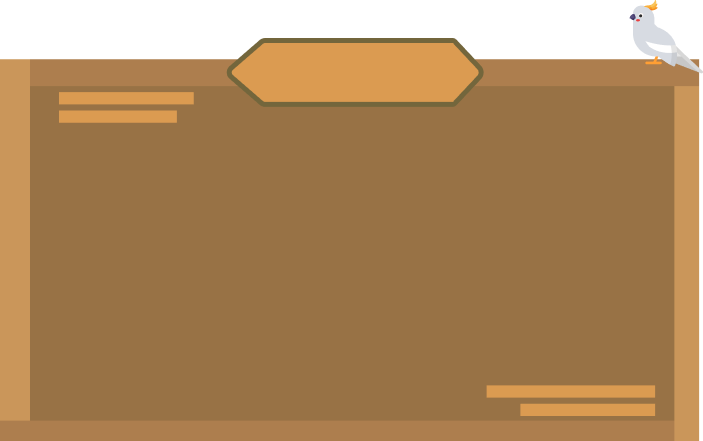
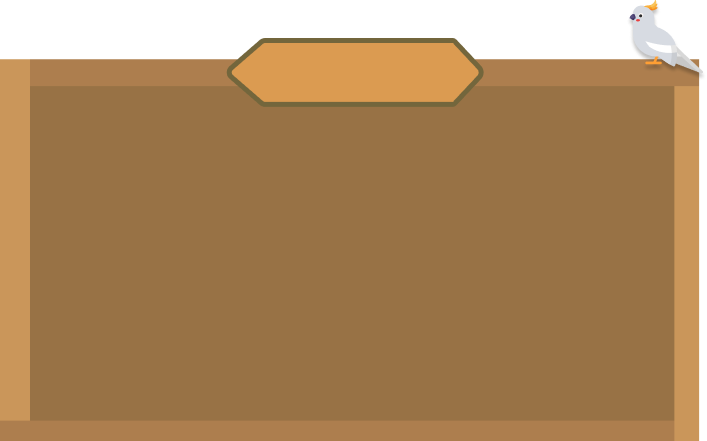
[UPDATE] change big-small plate img

diff --git a/src/Component/About/index.js b/src/Component/About/index.js
@@ -4,36 +4,37 @@ import Where from './Where'
 import '../../../node_modules/bootstrap/dist/css/bootstrap.min.css';
 
 import {Paragraph,Subtitle} from '../Core/Text'
+import Background from '../Core/Background';
 
 const Plate = styled.div`
     @media(min-width:320px) {
         background-image: url(/images/Objects/small-plate.png);
-        width:263px;
-        height: 218px;
-        margin-left:1.5em;
+        width:260px;
+        height: 290px;
+        margin-left:1.8em;
       }
       @media(min-width:375px) {
         background-image: url(/images/Objects/small-plate.png);
-        width:263px;
-        height: 218px;
+        width:271px;
+        height: 302px;
         margin-left:3.2em;
         }
       @media (min-width:410px) {
         background-image: url(/images/Objects/small-plate.png);
-        width:300px;
-        height: 250px;
+        width:309px;
+        height: 344px;
         margin-left:3.5em;
       }
       @media(min-width:576px) {
         background-image: url(/images/Objects/small-plate.png);
-        width:421px;
-        height:351 px;
+        width:434px;
+        height:484 px;
         margin-left:6.25em;
       }
       @media only screen and (min-width: 768px) and (max-height: 1024px) and (orientation: portrait)  {
         background-image: url(/images/Objects/small-plate.png);
-        width:562px;
-        height: 469px;
+        width:579px;
+        height: 645px;
         margin-left:5em;
       }
       @media only screen and (min-width: 768px) and (max-height: 1024px) and (orientation:landscape)  {
@@ -43,8 +44,8 @@ const Plate = styled.div`
       }
       @media only screen and (min-width: 834px) and (max-height: 1196px) and (orientation:portrait)  {
         background-image: url(/images/Objects/small-plate.png);
-        width:508px;
-        height: 423px;
+        width:523px;
+        height: 583px;
         margin-left:10em;
       }
       @media (min-width:960px) {
@@ -56,6 +57,12 @@ const Plate = styled.div`
         background-image: url(/images/Objects/big-platebird.png);
         width:510px;
         height: 320px;
+      }
+      @media only screen and (min-width: 1024px) and (max-height: 1467px) and (orientation:portrait)  {
+        background-image: url(/images/Objects/small-plate.png);
+        width:523px;
+        height: 583px;
+        margin-left:10em;
       }
       margin-left:0em;
       background-size:100%; 
@@ -126,7 +133,7 @@ letter-spacing: 0.05em;
 const AboutBox = () => (
 <div class="conteiner">
   <div class="row align-items-end">
-  <div class="col-sm-12 col-md-12 col-lg-8 col-xl-8">
+  <div class="col-sm-12 col-md-12 col-lg-8">
     <Plate>
       <Title className = "text-center" >
         About us 
@@ -136,7 +143,7 @@ const AboutBox = () => (
       </Content> 
     </Plate>
   </div>
-  <div class="col-sm-12 col-md-12 col-lg-4 col-xl-4">
+  <div class="col-sm-12 col-md-12 col-lg-4">
     <Where/>
   </div>
   </div>
@@ -145,6 +152,9 @@ const AboutBox = () => (
 )
 export default class About extends Component {
     render() {
-        return ( < AboutBox / > )
+        return (
+          <AboutBox/>
+  
+           )
     }
 }
